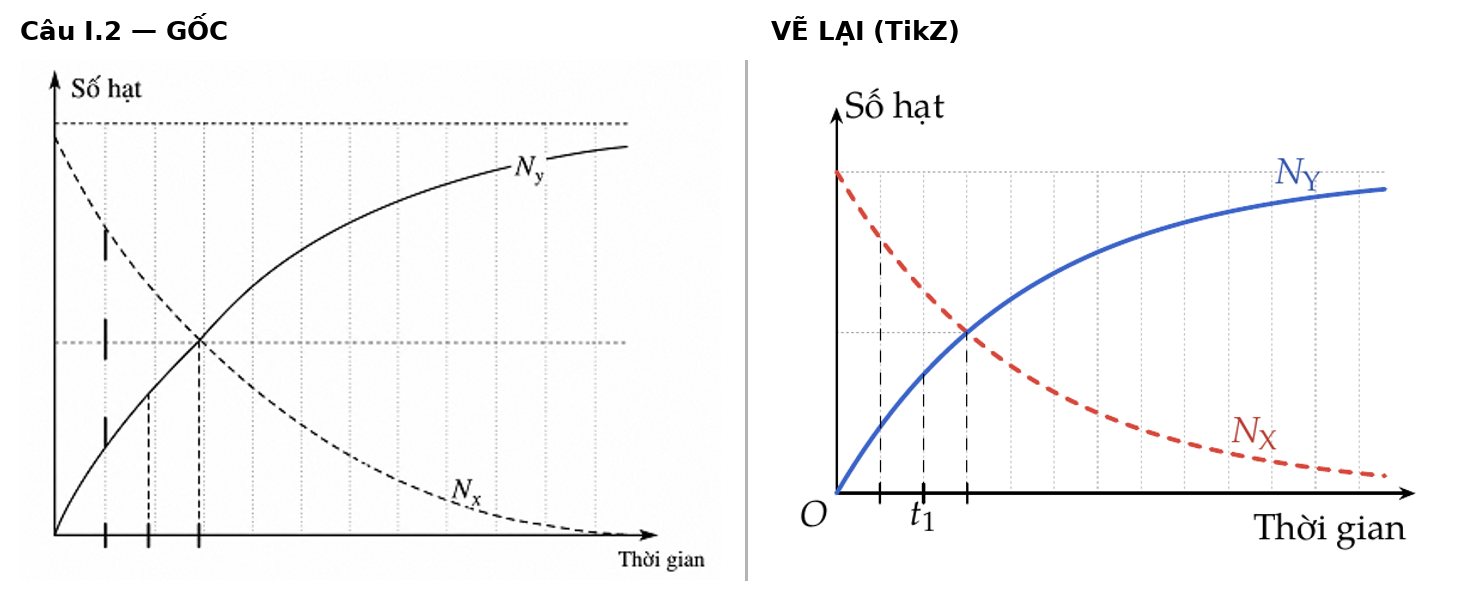
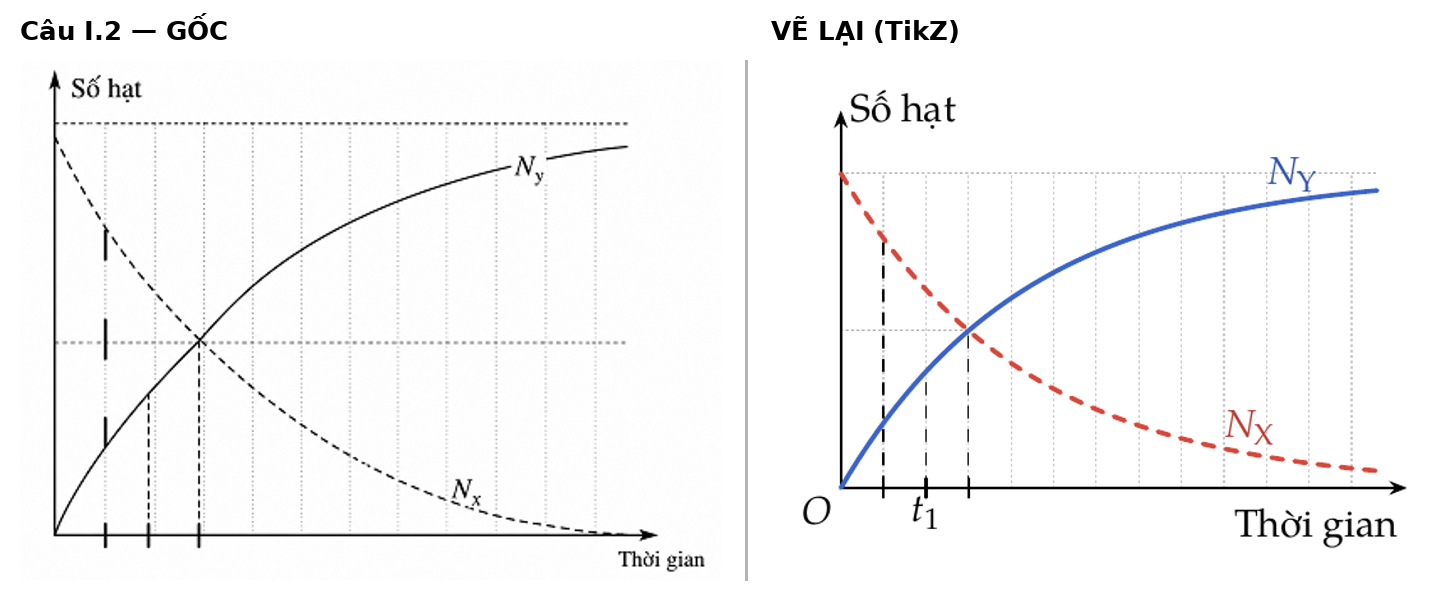
Lô W04–W05: lưu tạm các đề đang gõ
Claude-Session: https://claude.ai/code/session_01Mieh5Noh699gH2m9a1Rxgz

diff --git a/de/VatLi2026-HaiPhong-SoGD-Lan1/VatLi2026-HaiPhong-SoGD-Lan1.tex b/de/VatLi2026-HaiPhong-SoGD-Lan1/VatLi2026-HaiPhong-SoGD-Lan1.tex
@@ -565,18 +565,18 @@
 		}
 	\end{ex}
 
-	\NeedspaceCau[24.5\baselineskip]{38.4\baselineskip}
+	\NeedspaceCau[25.5\baselineskip]{38.4\baselineskip}
 	\begin{ex}%[VL12-C1-TH]
 		Để tìm hiểu sự truyền năng lượng nhiệt giữa các vật, một nhóm học sinh đã chuẩn bị một số dụng cụ thí nghiệm gồm: $01$ cốc nhôm; $01$ cốc thủy tinh (loại lớn chứa được cốc nhôm); $02$ nhiệt kế điện tử; $01$ bình đựng nước nóng và $01$ bình đựng nước lạnh cùng nhiệt độ với môi trường nơi làm thí nghiệm. Nhóm đã tiến hành hai thí nghiệm như sau:\\
 		\textbf{Thí nghiệm 1:} Đổ nước từ bình nước lạnh vào cốc nhôm và cốc thủy tinh rồi dùng hai nhiệt kế đồng thời đo nhiệt độ nước trong hai cốc (lúc $t=0$). Sau đó, đặt cốc nhôm vào trong cốc thủy tinh sao cho nước của cốc thủy tinh không tràn vào cốc nhôm, đồng thời đo nhiệt độ nước trong hai cốc và ghi số liệu từ hai nhiệt kế vào các thời điểm cách nhau $2$ phút.
 		% giuhinh
 		\par\noindent
-		\begin{minipage}[c]{0.6\linewidth}
+		\begin{minipage}[c]{0.57\linewidth}
 			\textbf{Thí nghiệm 2:} Đưa cốc nhôm ra khỏi cốc thủy tinh và thay nước trong cốc thủy tinh bằng nước nóng còn nước trong cốc nhôm vẫn giữ nguyên. Đo đồng thời nhiệt độ nước trong hai cốc (lúc $t=0$). Sau đó lại đặt cốc nhôm chứa nước lạnh vào cốc thủy tinh chứa nước nóng sao cho nước từ cốc thủy tinh không tràn vào cốc nhôm, đồng thời đo nhiệt độ nước trong hai cốc và ghi số liệu từ hai nhiệt kế vào các thời điểm cách nhau $2$ phút.
 		\end{minipage}\hfill
-		\begin{minipage}[c]{0.38\linewidth}
+		\begin{minipage}[c]{0.41\linewidth}
 			\centering
-				\begin{tikzpicture}[scale=0.85,line join=round,line cap=round,font=\footnotesize]
+				\begin{tikzpicture}[scale=0.8,line join=round,line cap=round,font=\footnotesize]
 					% cốc thủy tinh: nửa sau
 					\fill[VLxanh!4] (1.12,0.2)--(1.07,2.42)--(3.03,2.42)--(2.98,0.2)--cycle;
 					\draw[gray!55] (2.05,2.42) ellipse (0.98 and 0.16);
@@ -804,18 +804,18 @@
 		}
 	\end{ex}
 
-	\NeedspaceCau{15.7\baselineskip}
+	\NeedspaceCau{14.7\baselineskip}
 	\begin{ex}%[VL12-C3-VD]
 		Có hai thanh ray dẫn điện XX$'$ và YY$'$ đặt song song cách nhau $20$~cm trên mặt phẳng nghiêng nằm trong từ trường đều có cảm ứng từ $B=0{,}5$~T. Các đường sức từ có phương vuông góc với mặt phẳng nghiêng và có chiều hướng từ trên xuống dưới. Góc hợp bởi mặt phẳng nghiêng và mặt phẳng nằm ngang bằng $30^\circ$, đầu X và Y được nối với nguồn điện và điện trở $R$ như hình vẽ.
 		% giuhinh
 		\par\noindent
-		\begin{minipage}[c]{0.57\linewidth}
+		\begin{minipage}[c]{0.62\linewidth}
 			Một thanh nhôm MN nặng $50$~g trượt không ma sát trên hai thanh ray nhanh dần đều xuống dưới với gia tốc bằng $0{,}4~\text{m/s}^2$. Biết khi thanh nhôm chuyển động, nó vẫn luôn nằm ngang sao cho dòng điện trong thanh có chiều từ M đến N và cường độ không đổi bằng $I$ (ảnh hưởng của hiện tượng cảm ứng điện từ không đáng kể). Lấy $g=10~\text{m/s}^2$.\\
 			Cường độ dòng điện $I$ bằng bao nhiêu ampe (kết quả làm tròn đến chữ số hàng phần mười)?
 		\end{minipage}\hfill
-		\begin{minipage}[c]{0.41\linewidth}
+		\begin{minipage}[c]{0.36\linewidth}
 			\centering
-				\begin{tikzpicture}[scale=0.8,line join=round,line cap=round,font=\footnotesize]
+				\begin{tikzpicture}[scale=0.72,line join=round,line cap=round,font=\footnotesize]
 					\ctikzset{bipoles/length=0.7cm}
 					\coordinate (d) at (0.866,0.5);
 					\coordinate (Yp) at (0,0);

diff --git a/de/VatLi2026-HaiPhong-SoGD-Lan2/VatLi2026-HaiPhong-SoGD-Lan2.tex b/de/VatLi2026-HaiPhong-SoGD-Lan2/VatLi2026-HaiPhong-SoGD-Lan2.tex
@@ -535,12 +535,12 @@
 	\Opensolutionfile{ans}[ans/VatLi2026-HaiPhong-SoGD-Lan2-3]
 
 	\begin{ex}%[VL12-C3-VD]
-		\begin{minipage}[t]{0.62\linewidth}
+		\begin{minipage}[t]{0.71\linewidth}
 			Một đoạn dây dẫn MN, chiều dài $\ell=25{,}0$~cm, khối lượng $m=20{,}0$~g, được treo bằng hai sợi dây mảnh, nhẹ, không dãn, trong một từ trường đều, sao cho đoạn dây nằm ngang. Vectơ cảm ứng từ $\vv{B}$ thẳng đứng, hướng lên, có độ lớn là $B=0{,}10$~T. Lấy $g=9{,}8~\text{m/s}^2$. Khi có dòng điện cường độ $I=10{,}0$~A chạy qua đoạn dây theo chiều từ M đến N, ở trạng thái cân bằng, độ lớn lực căng của mỗi dây treo bằng bao nhiêu mili-niutơn (mN) (kết quả làm tròn đến chữ số hàng đơn vị)? Bỏ qua ảnh hưởng cơ học và lực từ tác dụng lên các dây nối cấp điện cho hệ thống.
 		\end{minipage}\hfill
-		\begin{minipage}[t]{0.32\linewidth}
+		\begin{minipage}[t]{0.27\linewidth}
 			\centering
-				\begin{tikzpicture}[baseline={([yshift=-1.5ex]current bounding box.north)},line join=round,line cap=round,font=\footnotesize]
+				\begin{tikzpicture}[scale=0.85,baseline={([yshift=-1.5ex]current bounding box.north)},line join=round,line cap=round,font=\footnotesize]
 					% giá treo
 					\foreach \x in {0.9,3.4}{
 						\fill[gray!40] (\x-0.42,3.0) rectangle (\x+0.42,3.12);

diff --git a/de/VatLi2026-HungYen-SoGD-Lan2/VatLi2026-HungYen-SoGD-Lan2.tex b/de/VatLi2026-HungYen-SoGD-Lan2/VatLi2026-HungYen-SoGD-Lan2.tex
@@ -174,8 +174,8 @@
 					\draw[VLdong!70!white,line width=1.6pt] (303,64) ellipse (44 and 10);
 				\end{scope}
 				\draw[black,thin] (303,106) circle (96);
-				\node[right,inner sep=1pt] at (350,58) {$N_\text{B}$};
-				\node[right,inner sep=1pt] at (362,148) {$N_\text{A}$};
+				\node[right,inner sep=0pt] at (348,56) {$N_\text{B}$};
+				\node[right,inner sep=0pt] at (357,126) {$N_\text{A}$};
 				% điện thoại trên đế sạc
 				\draw[black!70,line width=1.2pt] (378,282) .. controls (395,283) and (405,290) .. (417,292);
 				\filldraw[fill=gray!35,draw=black!70,thin,rounded corners=3pt] (40,248)--(382,248)--(375,298)--(50,298)--cycle;

diff --git a/de/VatLi2026-HaTinh-SoGD-Lan2/VatLi2026-HaTinh-SoGD-Lan2.tex b/de/VatLi2026-HaTinh-SoGD-Lan2/VatLi2026-HaTinh-SoGD-Lan2.tex
@@ -694,7 +694,7 @@
 					\draw[densely dashed,thin] (\x,\y)--(4.0,\yt);
 					\fill (\x,\y) circle (1.2pt);
 					\node[circle,fill=black,text=white,font=\fontsize{6.5}{6.5}\selectfont\bfseries,inner sep=0pt,minimum size=0.3cm] at (4.15,\yt) {\n};
-					\node[anchor=north west,text width=9.6cm,inner sep=0pt,font=\fontsize{6.2}{7.2}\selectfont] at (4.42,\yt+0.14) {\textbf{\t}\\\m};}
+					\node[anchor=north west,text width=10.3cm,inner sep=0pt,font=\fontsize{6.2}{7.2}\selectfont] at (4.42,\yt+0.14) {\textbf{\t}\\\m};}
 			\end{tikzpicture}
 		\end{center}
 		\NeedspaceBang{10.9\baselineskip}%

diff --git a/de/VatLi2026-HungYen-SoGD-Lan2/kiem-chung.md b/de/VatLi2026-HungYen-SoGD-Lan2/kiem-chung.md
@@ -1,0 +1,52 @@
+# Kiểm chứng đáp án – VatLi2026-HungYen-SoGD-Lan2
+
+Nguồn: `kho/goc/Hung Yen - So GDDT - Lan 2.docx` (Sở GD&ĐT Hưng Yên, kì thi thử lần 2, mã đề 0215), có bảng đáp án (không có dòng tiêu đề "ĐÁP ÁN") và lời giải tham khảo đủ ba phần. Bản PDF `Hung Yen - So GDDT - chua ro lan.pdf` trùng (cùng mã 0215), không gõ; đã dùng để đối chiếu hình I.2 (cũng không có nhãn $t_1$). Mọi câu đã giải lại, các câu có số liệu tính kiểm bằng Python.
+
+| Câu | Đáp án gốc | Giải lại | Ghi chú |
+|---|---|---|---|
+| I.1–I.18 | D D B B D D C C C C B D C C C D B B | trùng | I.2: xem dưới; I.8: e = 1000·0,02·0,3/0,1 = 60 V; I.12: T = (V/nR)p, dốc nhất ↔ V lớn nhất; I.14: đầu phải ống dây là cực Nam ⇒ Hình 2; I.15: E × B cùng hướng v (Nam), B hướng lên ⇒ E hướng Đông |
+| **I.2** | **D (1,70)** | **D** | **Hình gốc không ghi nhãn $t_1$** (cả bản Word và bản PDF trùng). Đồ thị có 3 vạch trên trục thời gian; $N_X = N_Y$ tại vạch thứ 3 (t = T). Đáp án gốc 1,70 ứng với vạch thứ 2 (t₁ = 2T/3: 2^(−2/3)/(1 − 2^(−2/3)) = 1,702); vạch thứ 1 (T/3) cho 3,85, không có phương án. Đã ghi nhãn $t_1$ ở vạch thứ 2, ghi `% KIỂM TRA` trong câu. |
+| II.1 | Đ Đ S Đ | trùng | |
+| II.2 | S S Đ Đ | trùng | Q = 1,2·2,1·18 + 1,2·334 = 446,16 kJ; H = 446,16/(2,5·220) = 81,12 %; c = 0,8112·2,5·250/(1,2·100) = 4,225 ≈ 4,2 kJ/(kg.K); 1,2·4,2·57/24 = 11,97 ≈ 12 kJ/h (dùng c = 4,225 thì 12,04) |
+| II.3 | S Đ Đ Đ | trùng | d) e = IR = 4·10⁻³·2 = 8·10⁻³ V = \|ΔΦ/Δt\|. a), b) phụ thuộc chiều quấn dây: hình gốc không thể hiện rõ chiều quấn; hình TikZ vẽ chiều quấn (mặt trước các vòng dây) khớp đáp án gốc (dòng điện ở mạch ngoài từ N đến M khi nam châm ra xa). a) và b) cùng một chuyển động tương đối nên luôn ngược đúng/sai. |
+| **II.4** | **Đ Đ Đ S** | **S Đ Đ S** | **Lệch ý a).** "Tổng số proton được bảo toàn": vế trái 92 proton, vế phải 60 + 40 = 100 proton (8 neutron biến thành proton, phát 8 electron); chỉ điện tích được bảo toàn (92 = 60 + 40 − 8). Lời giải gốc "hiểu theo bảo toàn điện tích hay số Z". File gõ theo S, ghi `% KIỂM TRA: Đ / S` — **thầy xem lại**. d) m = 3,456·10¹³/(3,2·10⁻¹¹)/6,02·10²³·235 = 421,6 g ≠ 360 g. |
+| III.1–III.6 | 1,04 / 0,21 / 25,8 / 400 / 0,1 / 18 | trùng | xem phép tính dưới |
+
+## Phép tính chính (Python)
+- III.1: I = mg·tan 30°/(BL) = 0,0045·10·0,5774/(0,25·0,1) = 1,039 → 1,04 A.
+- III.2: N = ½·¼·6,02·10²³ = 7,525·10²² phản ứng; E = 7,525·10²²·17,3·1,6·10⁻¹³ = 2,083·10¹¹ J = 0,208·10¹² J → x = 0,21.
+- III.3: Q = 10·4200·75 + 10·2,26·10⁶ = 25,75·10⁶ J → 25,8 MJ (25,75 làm tròn lên, theo đáp án gốc).
+- III.4: ΔU = 2500 − 3·10⁵·7·10⁻³ = 400 J.
+- III.5: V₁ = 0,3·5/15 = 0,1 lít/phút.
+- III.6: T₁ = 320/1,1 = 290,91 K → 17,91 °C → 18.
+
+## Sửa lời đề (lỗi chữ bản gốc)
+- Cho biết: "J/mol.K" → "J/(mol.K)"; thống nhất đơn vị ghép "kJ/(kg.K)", "J/(kg.K)" (II.2, III.3).
+- I.2, I.12: "như hình vẽ" → "như hình bên" (hình đặt bên phải câu dẫn); I.2 nhãn $N_y$, $N_x$ trên hình đổi thành $N_\text{Y}$, $N_\text{X}$ cho khớp lời đề; thêm nhãn $t_1$ (xem bảng).
+- I.5: (2) "λ = T.ln2" → "λ = T ln 2".
+- I.6: "nguyên lý" → "nguyên lí".
+- I.10: "hiđrô" → "hydrogen", "cacbon" → "carbon" (thuật ngữ SGK 2018); kí hiệu ¹₁H, ¹²₆C gõ lại (bản gốc vỡ thành "1¹H", "6¹²C").
+- I.11: "B.I.L.cos α" → "BIL cos α" (cả bốn phương án).
+- I.13: in đậm "**không phải**" (bản gốc đã in đậm).
+- I.14: "kim-nam châm" → "kim nam châm".
+- I.18: phương án viết thường ("sự nóng chảy"...) vì nối tiếp câu dẫn.
+- II.1: "xi lanh", "xi-lanh" → "xilanh"; "pit tông" → "pit-tông"; dấu ";" cuối câu dẫn → ":"; mở ngoặc kép viết hoa "Nếu".
+- **II.2: "nhiệt hóa hơi riêng của nước là 230,0 kJ/kg" → "2300 kJ/kg"** (sai chữ số/đơn vị; số liệu này không dùng trong các ý). Ý b) "bình nhiệt lượng" → "bình nhiệt lượng kế"; ý d) "của lượng nước bình nhiệt lượng kế ra môi trường coi là không đổi" → "của lượng nước trong bình nhiệt lượng kế ra môi trường là không đổi".
+- II.3 d): "4 m.A" → "4 mA".
+- **II.4: hạt nhân "⁹⁰₄₀La" → "⁹⁰₄₀Zr"** (Z = 40 là zirconium; phản ứng chuẩn ²³⁵U + n → ¹⁴³Nd + ⁹⁰Zr + 3n + 8e⁻).
+- III.2: "Helium" → "helium"; "Nếu tổng hợp từ 1 g hạt ⁴₂He" → "Nếu tổng hợp được 1 g ⁴₂He"; "(J)" → "J".
+- III.1, III.2, III.6: thống nhất cách viết yêu cầu làm tròn "(kết quả làm tròn đến chữ số hàng …)" đặt trước dấu "?".
+- III.5: "oxy" → "oxygen", "bệnh lý" → "bệnh lí".
+
+## Trình bày
+- Đề gốc đánh số từng phần từ câu 1 (không cần đánh số lại). Không có cặp câu dùng chung dữ kiện.
+- 8 hình vẽ lại bằng TikZ, tô màu theo bảng màu chung:
+  - I.2 đồ thị $N_X$ (đỏ, nét đứt như gốc), $N_Y$ (xanh), lưới dọc chấm; đặt bên phải câu dẫn.
+  - I.6 sạc không dây (`% giuhinh`): tay – điện thoại – đế sạc, vòng phóng to hai cuộn dây $N_\text{A}$, $N_\text{B}$ (màu đồng) và đường sức (xanh), khối "ĐIỆN THOẠI / ĐẾ SẠC" với vòng tròn nhỏ; đặt bên phải câu dẫn.
+  - I.12 ba đường đẳng tích trên hệ trục $(p, T)$, phần gần gốc nét đứt; đặt bên phải câu dẫn.
+  - I.14 bốn ô ống dây có lõi, nguồn "+ −", kim nam châm (cực N đỏ, S xanh). Mặt trước các vòng dây nghiêng "/" như hình gốc (dòng điện vào đầu trái, đi lên ở mặt trước ⇒ đầu phải là cực Nam).
+  - I.16 bộ dụng cụ (`% giuhinh`): cân điện tử, biến thế nguồn (biển cảnh báo, núm vặn), oát kế, nhiệt lượng kế, nhiệt kế điện tử; màn hình cân, oát kế để trống (ảnh gốc ghi 0.00); bỏ chữ "DEGASSER UNIT", "DANGER HIGH VOLTAGE..." và số trên núm vặn, giữ "DIGITAL METER", "TARE".
+  - II.1 xilanh trong bình nước, giá đỡ, nhãn "Giá đỡ", "Khí", "Nước" (nước tô xanh nhạt trung tính vì thí nghiệm dùng cả nước nóng và nước đá).
+  - II.2 đồ thị nhiệt độ – thời gian giữ các mốc 19, 100, 200, 220, 300, 400, 470, 500 s và các điểm đo.
+  - II.3 cuộn dây – nam châm (N đỏ, S xanh, nằm trước cuộn dây như gốc) – điện kế mA, điểm M, N (`% giuhinh`). Cuộn dây vẽ dạng xoắn có mặt trước/mặt sau để thấy chiều quấn.
+- Ảnh so ở `so-hinh/`.
